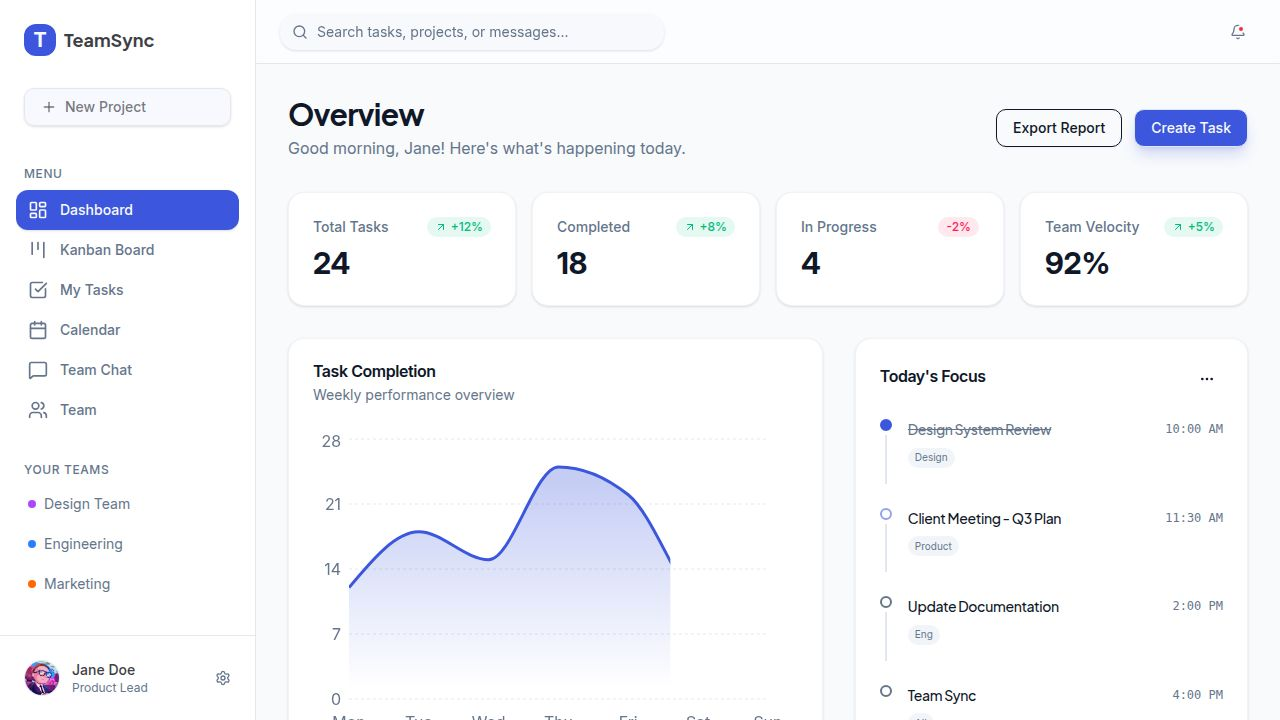
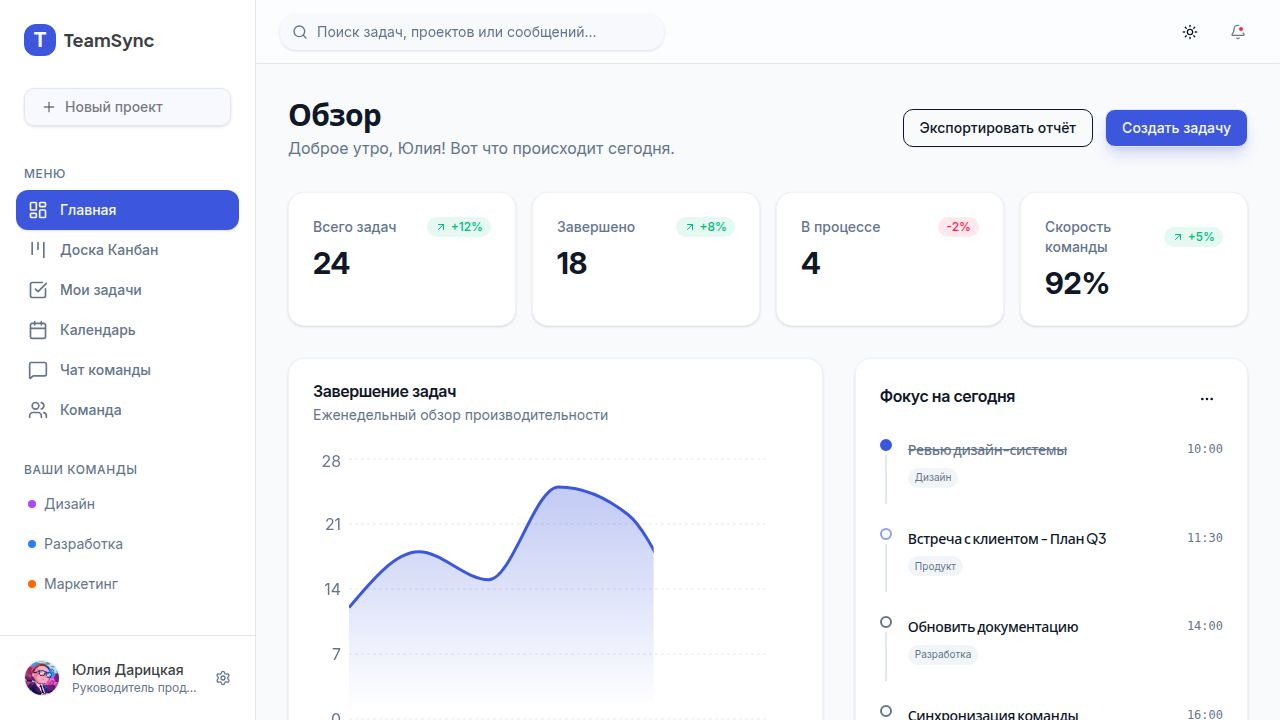
Add dark mode theme to the application interface
Add a new `ThemeToggle` component and integrate `next-themes` for managing light, dark, and system themes across the application, updating `Layout.tsx` and `main.tsx`.

Replit-Commit-Author: Agent
Replit-Commit-Session-Id: 86fa8730-0adf-46c0-a5ce-d7efcf1eead9
Replit-Commit-Checkpoint-Type: full_checkpoint
Replit-Commit-Event-Id: d3fbb2af-ade2-4900-b871-4cf78f5a4983
Replit-Commit-Screenshot-Url: https://storage.googleapis.com/screenshot-production-us-central1/d3e89fc9-67fd-44f6-a7ef-39d89d359206/86fa8730-0adf-46c0-a5ce-d7efcf1eead9/Fh12By6
Replit-Helium-Checkpoint-Created: true

diff --git a/client/src/components/layout/ThemeToggle.tsx b/client/src/components/layout/ThemeToggle.tsx
@@ -1,0 +1,38 @@
+import * as React from "react"
+import { Moon, Sun } from "lucide-react"
+import { useTheme } from "next-themes"
+
+import { Button } from "@/components/ui/button"
+import {
+  DropdownMenu,
+  DropdownMenuContent,
+  DropdownMenuItem,
+  DropdownMenuTrigger,
+} from "@/components/ui/dropdown-menu"
+
+export function ThemeToggle() {
+  const { setTheme } = useTheme()
+
+  return (
+    <DropdownMenu>
+      <DropdownMenuTrigger asChild>
+        <Button variant="ghost" size="icon" className="h-9 w-9" data-testid="button-theme-toggle">
+          <Sun className="h-[1.2rem] w-[1.2rem] rotate-0 scale-100 transition-all dark:-rotate-90 dark:scale-0" />
+          <Moon className="absolute h-[1.2rem] w-[1.2rem] rotate-90 scale-0 transition-all dark:rotate-0 dark:scale-100" />
+          <span className="sr-only">Переключить тему</span>
+        </Button>
+      </DropdownMenuTrigger>
+      <DropdownMenuContent align="end">
+        <DropdownMenuItem onClick={() => setTheme("light")}>
+          Светлая
+        </DropdownMenuItem>
+        <DropdownMenuItem onClick={() => setTheme("dark")}>
+          Темная
+        </DropdownMenuItem>
+        <DropdownMenuItem onClick={() => setTheme("system")}>
+          Системная
+        </DropdownMenuItem>
+      </DropdownMenuContent>
+    </DropdownMenu>
+  )
+}

diff --git a/client/src/components/layout/Layout.tsx b/client/src/components/layout/Layout.tsx
@@ -21,6 +21,7 @@ import { ScrollArea } from "@/components/ui/scroll-area";
 import { Sheet, SheetContent, SheetTrigger } from "@/components/ui/sheet";
 import { Input } from "@/components/ui/input";
 import { Separator } from "@/components/ui/separator";
+import { ThemeToggle } from "./ThemeToggle";
 
 const sidebarItems = [
   { icon: LayoutDashboard, label: "Главная", href: "/" },
@@ -134,6 +135,7 @@ export function Layout({ children }: { children: React.ReactNode }) {
           </div>
 
           <div className="flex items-center gap-3">
+             <ThemeToggle />
              <Button variant="ghost" size="icon" className="relative rounded-full hover:bg-secondary">
                <Bell className="w-5 h-5 text-muted-foreground" />
                <span className="absolute top-2.5 right-2.5 w-2 h-2 bg-red-500 rounded-full border-2 border-background" />

diff --git a/client/src/main.tsx b/client/src/main.tsx
@@ -1,5 +1,10 @@
 import { createRoot } from "react-dom/client";
+import { ThemeProvider } from "next-themes";
 import App from "./App";
 import "./index.css";
 
-createRoot(document.getElementById("root")!).render(<App />);
+createRoot(document.getElementById("root")!).render(
+  <ThemeProvider attribute="class" defaultTheme="system" enableSystem>
+    <App />
+  </ThemeProvider>
+);
